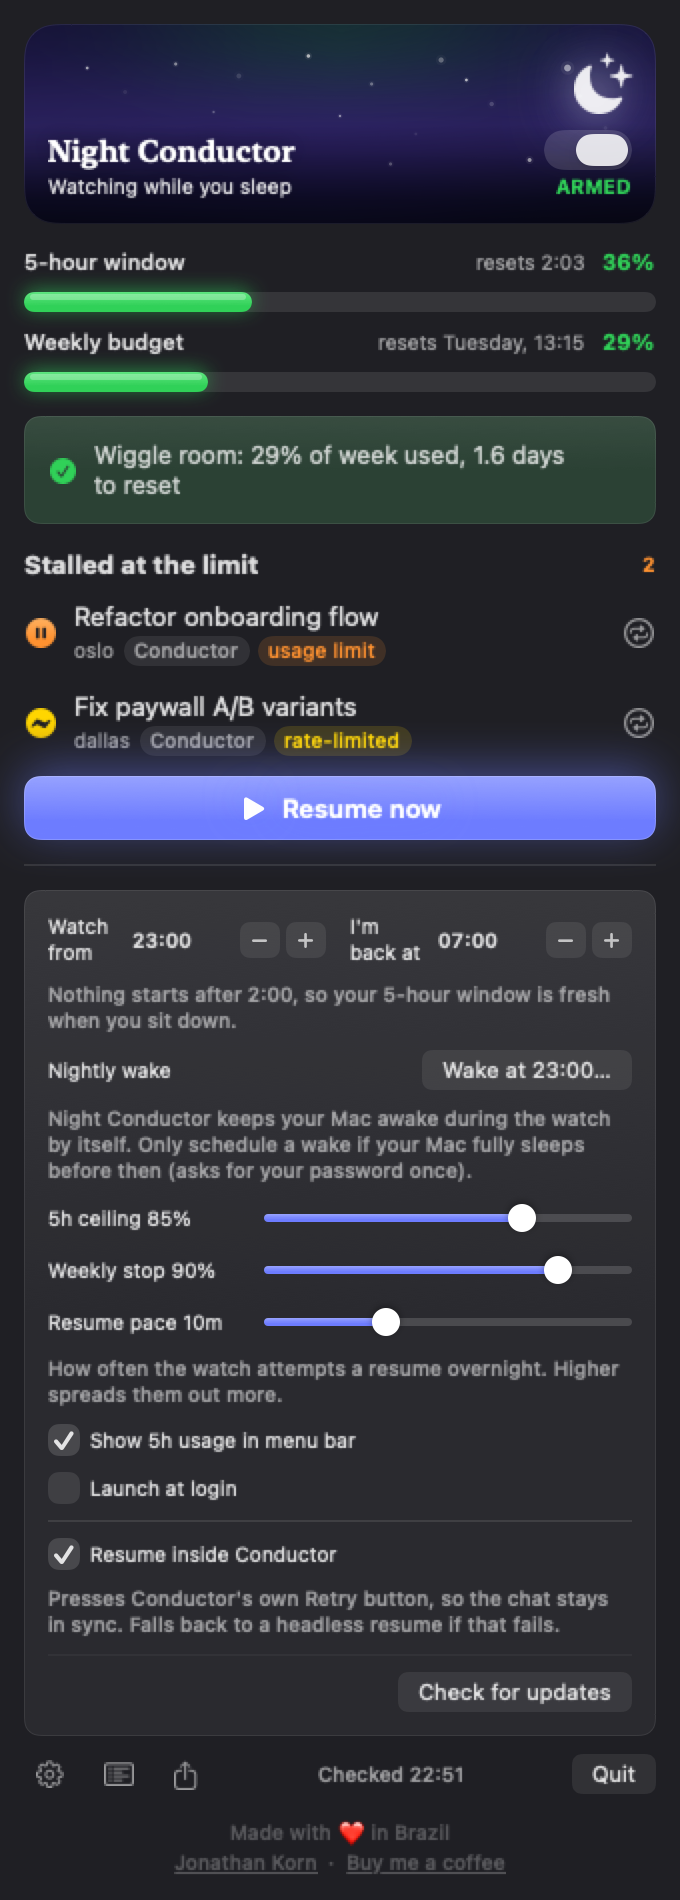
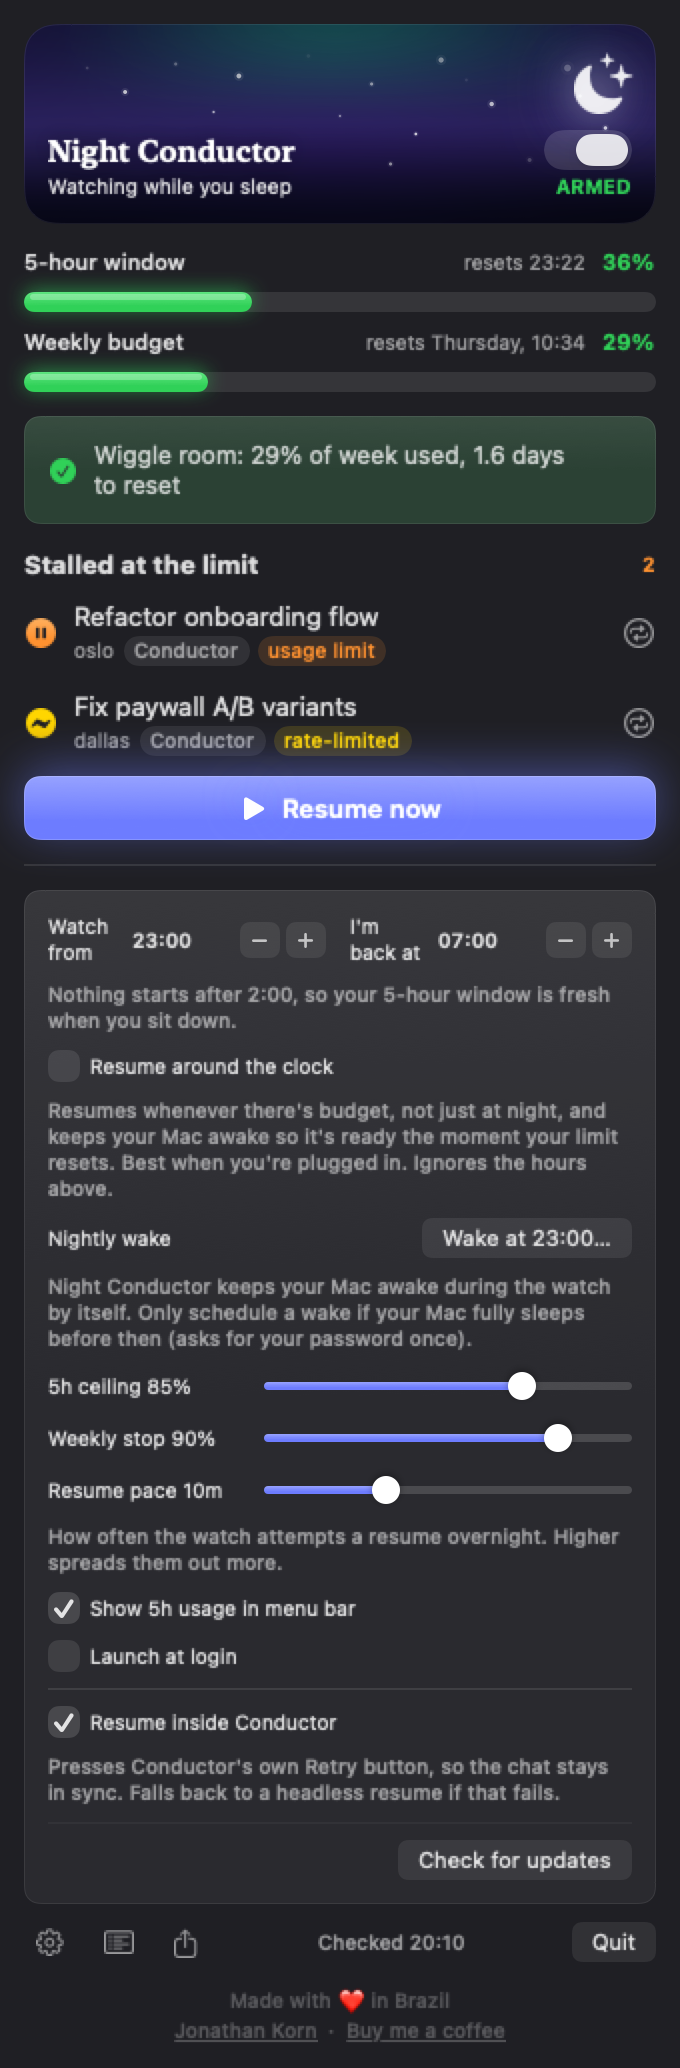
feat: "resume around the clock" toggle; fix: manual Resume now resumes the whole list (1.0.5)
Two things from tonight's usage:

- Fix: "Resume now" stopped after the first session that resumed inside the host
  app (handedToApp), so once Accessibility was granted a manual click resumed
  one session and left the rest stalled ("some didn't resume"). The break is now
  auto-only (extracted as tested AppState.shouldStopPass); a manual pass goes
  through the whole list, an auto pass still spreads one per tick.

- Feat (Option B): "Resume around the clock" toggle. When on, the watch resumes
  whenever there's budget (bypassing the night window) AND keeps the Mac awake
  while armed, so it's ready to resume the instant a limit resets, any time of
  day. This is the reliable way to deliver resume-on-reset: scheduling a wake at
  each reset would need an admin prompt every ~5h, so keeping the Mac awake
  while the toggle is on is simpler and friction-free. Off by default. 48 tests.

diff --git a/NightConductor/Sources/NightConductor/AppState.swift b/NightConductor/Sources/NightConductor/AppState.swift
@@ -54,6 +54,7 @@ final class AppState: ObservableObject {
             "fiveHourCeiling": 85.0,
             "weeklyCeiling": 90.0,
             "resumePaceMinutes": 10.0,
+            "aroundTheClock": false,
         ])
         if forScreenshots { return } // inert state; data injected by caller
         // No accessibility prompt at launch — that nags on every relaunch.
@@ -74,6 +75,11 @@ final class AppState: ObservableObject {
             log(newValue ? "Night watch armed" : "Night watch disarmed")
         }
     }
+
+    /// When on, the watch resumes whenever there's budget (not just the night
+    /// window) and keeps the Mac awake while armed, so it's always ready to
+    /// resume the moment your limit resets, any time of day.
+    var aroundTheClock: Bool { UserDefaults.standard.bool(forKey: "aroundTheClock") }
 
     func start() {
         viewLoop?.cancel()
@@ -134,7 +140,9 @@ final class AppState: ObservableObject {
             hour: Calendar.current.component(.hour, from: Date()),
             start: config.startHour, end: config.endHour
         )
-        PowerManager.preventIdleSleep(armed && inWindow)
+        // Around-the-clock keeps the Mac awake whenever armed, so it's ready to
+        // resume the instant a limit resets; otherwise only during the window.
+        PowerManager.preventIdleSleep(armed && (aroundTheClock || inWindow))
         checkMorningSummary(inWindow: inWindow, config: config)
         stalled = await combinedStalled()
         lastTick = Date()
@@ -225,6 +233,13 @@ final class AppState: ObservableObject {
         min(20, max(5, minutes ?? 10)) * 60
     }
 
+    /// Stop a resume pass after a success only when it's NOT manual: an auto
+    /// pass resumes one session per tick to spread the night's work, while a
+    /// manual "Resume now" resumes the whole list.
+    nonisolated static func shouldStopPass(manual: Bool, handedToApp: Bool, resultOK: Bool) -> Bool {
+        !manual && (handedToApp || resultOK)
+    }
+
     /// Whether the auto loop should resume this session now. Pinned sessions run
     /// around the clock; the rest only inside the night window (`nightOK`). A
     /// session stalled on a TRANSIENT server rate-limit ("temporarily limiting
@@ -277,7 +292,9 @@ final class AppState: ObservableObject {
         // Never overspend. But resume PINNED sessions around the clock, and
         // every stalled session during the night window.
         guard Policy.budgetAllows(usage: usage, config: config, now: now).resume else { return }
-        let nightOK = Policy.shouldResume(usage: usage, config: config, now: now).resume
+        // Around-the-clock resumes whenever budget allows (the guard above),
+        // bypassing the night window. Otherwise only inside the watch window.
+        let nightOK = aroundTheClock || Policy.shouldResume(usage: usage, config: config, now: now).resume
         let pins = pinnedIDs
         let eligible = stalled.filter { Self.autoResumeEligible($0, nightOK: nightOK, pins: pins, now: now) }
         guard !eligible.isEmpty else { return }
@@ -443,19 +460,17 @@ final class AppState: ObservableObject {
                 night.save()
             }
 
-            // Spread it out: an auto pass resumes ONE session per tick, so the
-            // night's budget trickles out across the window instead of
-            // bursting. The next (jittered) tick re-checks budget and takes
-            // the next session. A manual pass keeps going through the list.
-            if handedToApp {
-                log("Handed to \(session.source.label), next session shortly")
+            // Spread it out: an AUTO pass resumes ONE session per tick so the
+            // night's budget trickles out instead of bursting; the next tick
+            // takes the next session. A MANUAL pass ("Resume now") keeps going
+            // through the whole list, so clicking it resumes everything.
+            if Self.shouldStopPass(manual: manual, handedToApp: handedToApp, resultOK: result.ok) {
+                log(handedToApp
+                    ? "Handed to \(session.source.label), next session shortly"
+                    : "Resumed \(session.title), spacing out, next at the next cycle")
                 break
             }
-            if result.ok, !manual {
-                log("Resumed \(session.title), spacing out, next at the next cycle")
-                break
-            }
-            // Otherwise (failed, or a manual headless run) try the next now.
+            // Manual passes, and failed auto attempts, continue to the next.
         }
         stalled = await combinedStalled()
     }

diff --git a/NightConductor/Tests/NightConductorTests/ResumeEligibilityTests.swift b/NightConductor/Tests/NightConductorTests/ResumeEligibilityTests.swift
@@ -45,4 +45,17 @@ final class ResumeEligibilityTests: XCTestCase {
         XCTAssertEqual(AppState.paceSeconds(60), 1200)  // clamped down to 20
         XCTAssertEqual(AppState.paceSeconds(nil), 600)  // unset -> default
     }
+
+    // Manual "Resume now" must resume the WHOLE list; an auto pass stops after
+    // one success to spread the night's work. (Regression: a manual pass used
+    // to stop after the first in-app resume, so "some didn't resume".)
+    func testManualPassResumesAllAutoStopsAfterOne() {
+        // Auto: stop after any success (handed to app or headless).
+        XCTAssertTrue(AppState.shouldStopPass(manual: false, handedToApp: true, resultOK: true))
+        XCTAssertTrue(AppState.shouldStopPass(manual: false, handedToApp: false, resultOK: true))
+        XCTAssertFalse(AppState.shouldStopPass(manual: false, handedToApp: false, resultOK: false)) // failed: keep going
+        // Manual: never stop, even after an in-app resume.
+        XCTAssertFalse(AppState.shouldStopPass(manual: true, handedToApp: true, resultOK: true))
+        XCTAssertFalse(AppState.shouldStopPass(manual: true, handedToApp: false, resultOK: true))
+    }
 }

diff --git a/NightConductor/Sources/NightConductor/MenuView.swift b/NightConductor/Sources/NightConductor/MenuView.swift
@@ -427,6 +427,7 @@ struct SettingsPane: View {
     @AppStorage("fiveHourCeiling") private var fiveHourCeiling = 85.0
     @AppStorage("weeklyCeiling") private var weeklyCeiling = 90.0
     @AppStorage("resumePaceMinutes") private var resumePaceMinutes = 10.0
+    @AppStorage("aroundTheClock") private var aroundTheClock = false
     @AppStorage("uiResume") private var uiResume = true
     @AppStorage("menuBarUsage") private var menuBarUsage = true
     @State private var launchAtLogin = SMAppService.mainApp.status == .enabled
@@ -446,6 +447,13 @@ struct SettingsPane: View {
                 HourStepper(hour: $endHour)
             }
             Text("Nothing starts after \(((endHour - 5) + 24) % 24):00, so your 5-hour window is fresh when you sit down.")
+                .font(.caption2)
+                .foregroundStyle(.secondary)
+                .frame(maxWidth: .infinity, alignment: .leading)
+            Toggle("Resume around the clock", isOn: $aroundTheClock)
+                .font(.caption)
+                .toggleStyle(.checkbox)
+            Text("Resumes whenever there's budget, not just at night, and keeps your Mac awake so it's ready the moment your limit resets. Best when you're plugged in. Ignores the hours above.")
                 .font(.caption2)
                 .foregroundStyle(.secondary)
                 .frame(maxWidth: .infinity, alignment: .leading)

diff --git a/CHANGELOG.md b/CHANGELOG.md
@@ -2,6 +2,20 @@
 
 All notable changes to Night Conductor. Dates are when the release was cut.
 
+## 1.0.5
+
+### Added
+- "Resume around the clock" toggle. When on, the watch resumes whenever there's
+  budget (not just the night window) and keeps the Mac awake while armed, so it
+  is ready to resume the moment your limit resets, any time of day. Off by
+  default; best when you're plugged in.
+
+### Fixed
+- "Resume now" stopped after the first session that resumed inside Conductor or
+  the Claude app (once Accessibility was granted), so the rest were left stalled.
+  A manual resume now goes through the whole list. An auto pass still resumes one
+  per tick to spread the night's work.
+
 ## 1.0.4
 
 ### Added